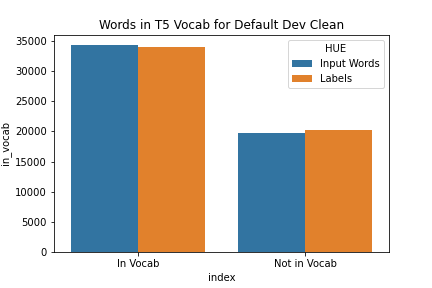
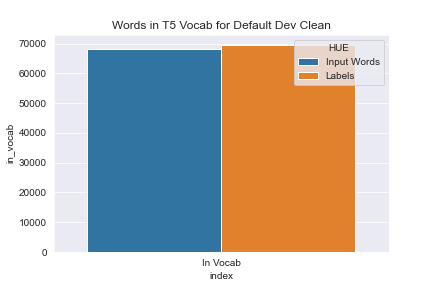
Added a prepare_data_for_prompt_engineering in dataset.py. Need to integrate it later to the notebook.
Also, changed that data exploration a bit.

diff --git a/data_utils/dataset.py b/data_utils/dataset.py
@@ -31,10 +31,9 @@ class SentencesDataset(Dataset):
             'labels': labels
         }
 
-
-def prepare_data(data: list, tokenizer=None, batch_size=8, shuffle=True, lowcase=True, num_bins=10, debug=False):
+def prepare_data_basic(data: list, tokenizer=None, batch_size=8, shuffle=True, lowcase=True, num_bins=10, debug=False):
     """
-    Prepare data for training
+    Prepare data for training of REC-ACE and baseline T5
     :param data: list of data loaded from jsons
     :param tokenizer: what tokenizer to use
     :param batch_size: batch size for data loader
@@ -105,12 +104,70 @@ def prepare_data(data: list, tokenizer=None, batch_size=8, shuffle=True, lowcase
     data_sequences = DataLoader(dataset, batch_size=batch_size, shuffle=shuffle)
     return data_sequences
 
+def prepare_data_for_prompt_engineering(data: list, tokenizer=None, batch_size=8, shuffle=True, lowcase=True, num_bins=10, debug=False):
+    """
+    Prepare data for training T5 with prompt engineering
+    :param data: list of data loaded from jsons
+    :param tokenizer: what tokenizer to use
+    :param batch_size: batch size for data loader
+    :param shuffle: to shuffle or not to shuffle
+    :param lowcase: whether to use transform all sentences in data to lower case
+    :param num_bins: number of bins when quantize the coinfidence scores
+    :return: DataLoader
+    """
+    assert tokenizer, "Must include tokenizer"
+    prompt = """correct the sentence based on confidence scores: sentence: "{}",scores: "{}" """
+    # First enroll all data to lists, for easier encoding with tokkenizer
+    truth_list = []
+    sentences_list = []
+    scores_list = []
+    errors_list = []
+    ids_list = []
+
+    if debug:
+        N_data = len(data)
+        use_only = 0.1
+        to_use = round(use_only * N_data)
+        data = data[:to_use]
+        print(f'Debug Mode - using only {to_use} out of {N_data}, training datapoints')
+
+    for datapoint in data:
+        # Prepare data for tokenizer
+        asr = datapoint['asr']
+        words_temp, scores, errors = zip(*asr)
+        words_vec = ' '.join(words_temp)
+        if lowcase:
+            words_vec = words_vec.lower()
+        # quantize scores into bins
+        scores_binned = quantize_to_bins(scores, num_bins=num_bins)
+        ids_list.append(datapoint['id'])
+        truth_list.append(datapoint['truth'])
+        sentence =  prompt.format(words_vec, ', '.join(map(str, scores_binned)))
+        sentences_list.append(sentence)
+        scores_list.append(scores_binned)
+        errors_list.append(errors)
+
+    print('- Converting the input sentences into tokens')
+    sentences = tokenizer(sentences_list, padding=True, return_tensors='pt')['input_ids']
+    print('- Converting the GT sentences into tokens')
+    labels = tokenizer(truth_list, padding=True, return_tensors='pt')['input_ids']
+    pad_width = lambda vec: max(0, len(sentences[0]) - len(vec))
+    scores = np.array([np.pad(score, (0, pad_width(score))) for score in scores_list])
+    errors = np.array([np.pad(error, (0, pad_width(error))) for error in errors_list])
+
+    dataset = SentencesDataset(sentences=sentences, scores=scores, errors=errors, labels=labels)
+    data_sequences = DataLoader(dataset, batch_size=batch_size, shuffle=shuffle)
+    return data_sequences
+
 if __name__ == '__main__':
 
     tokenizer = T5Tokenizer.from_pretrained("t5-small")
     path = '../data/default/train_clean.json'
     debug = True
+    # Basic true loads data loader for REC-ACE training. Basic False load data loader for prompt engineering.
+    basic = False
 
+    prepare_data = prepare_data_basic if basic else prepare_data_for_prompt_engineering
     data = read_json(json_path=path)
     train_loader = prepare_data(data, tokenizer=tokenizer, debug=debug)
     batch = next(iter(train_loader))
